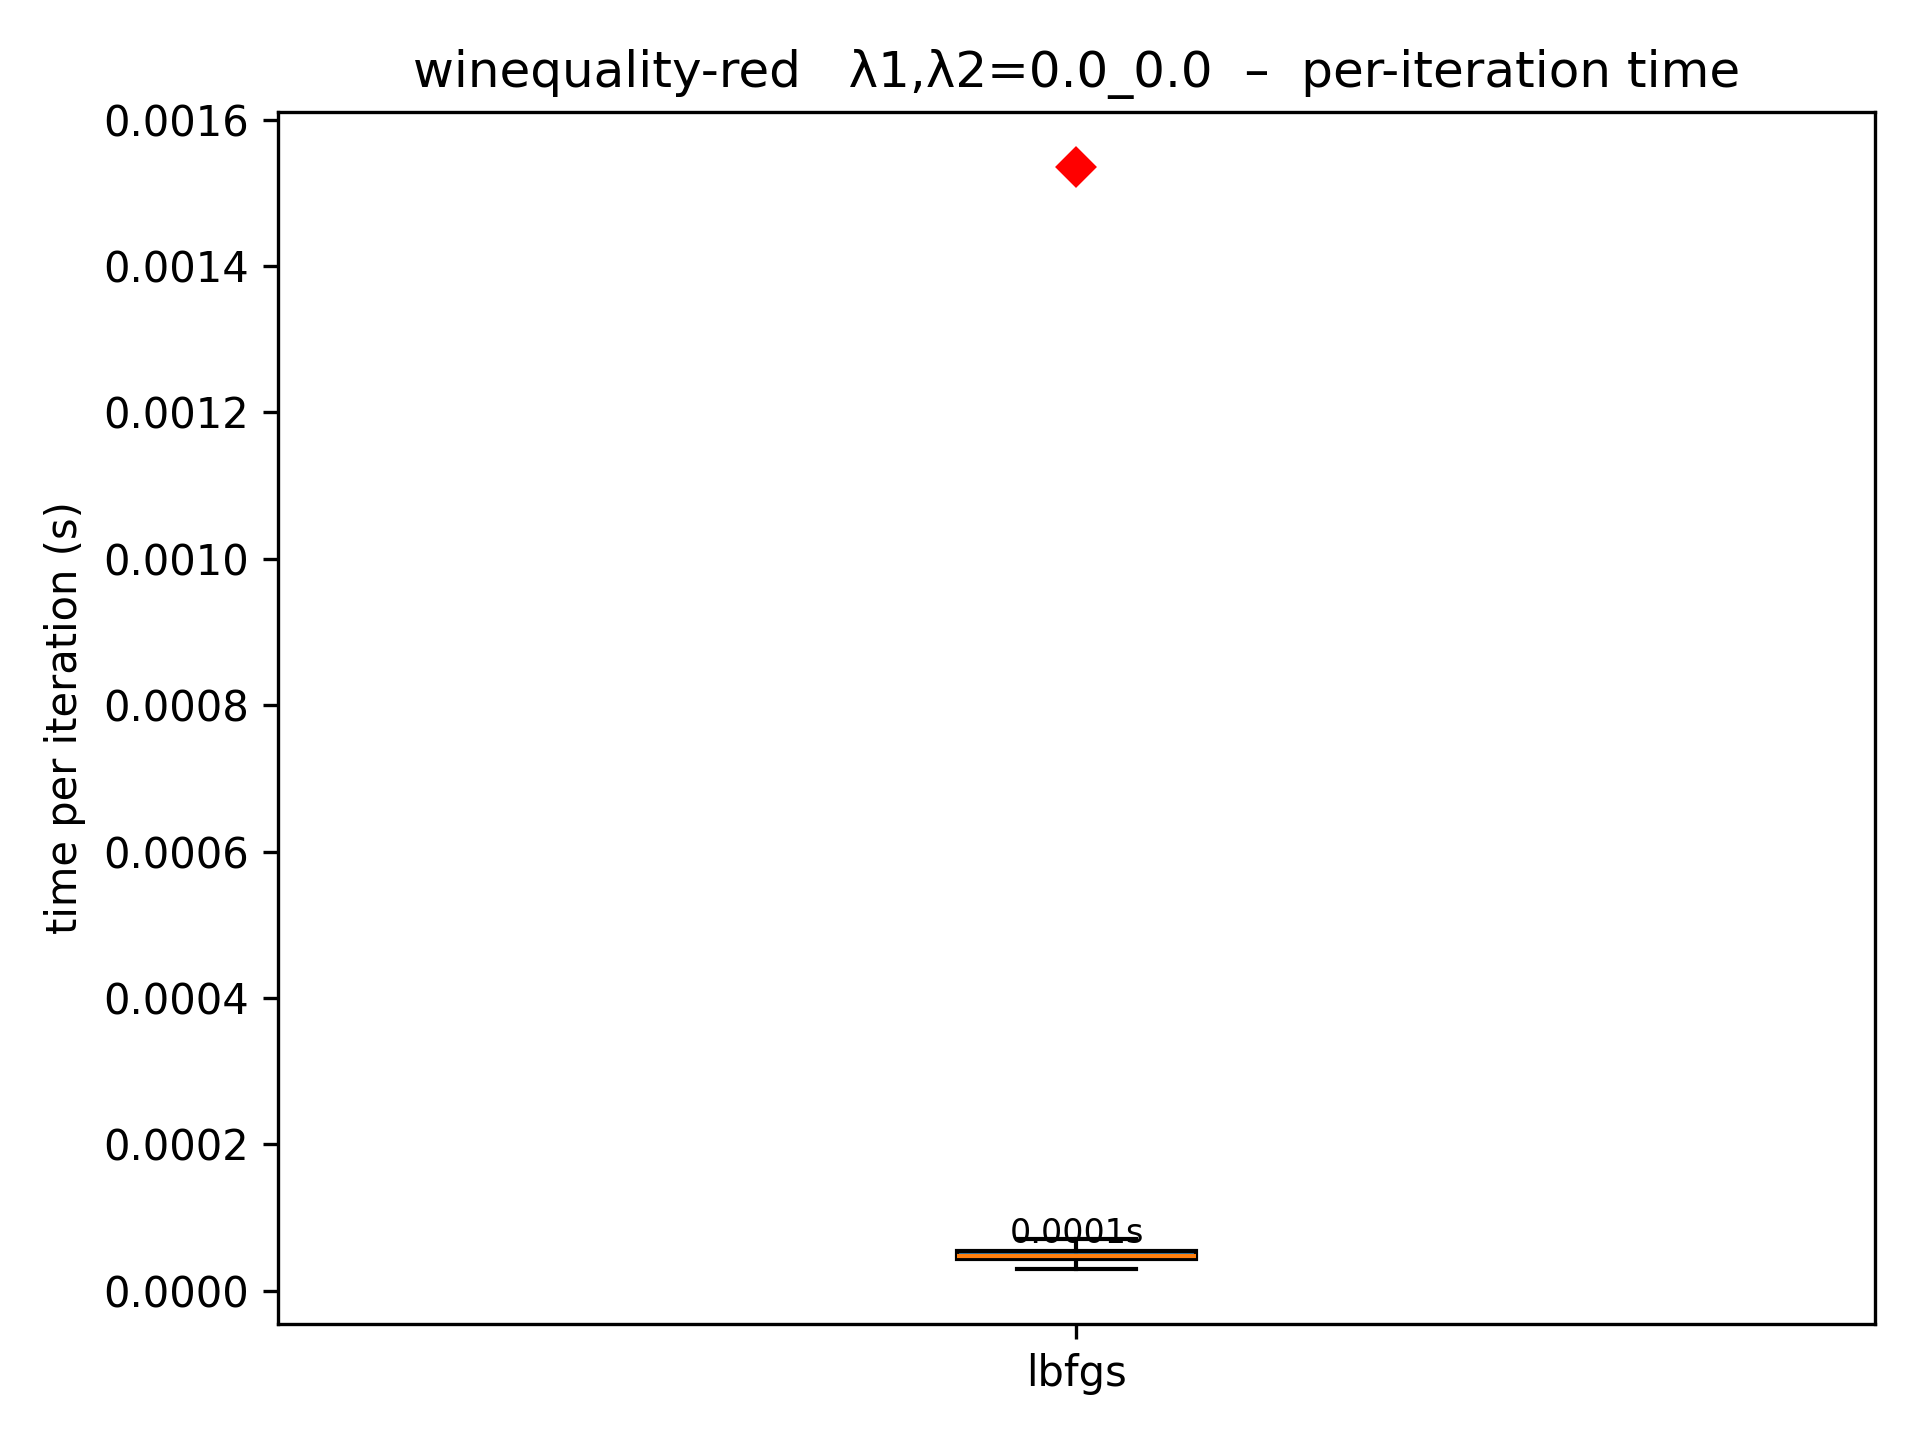
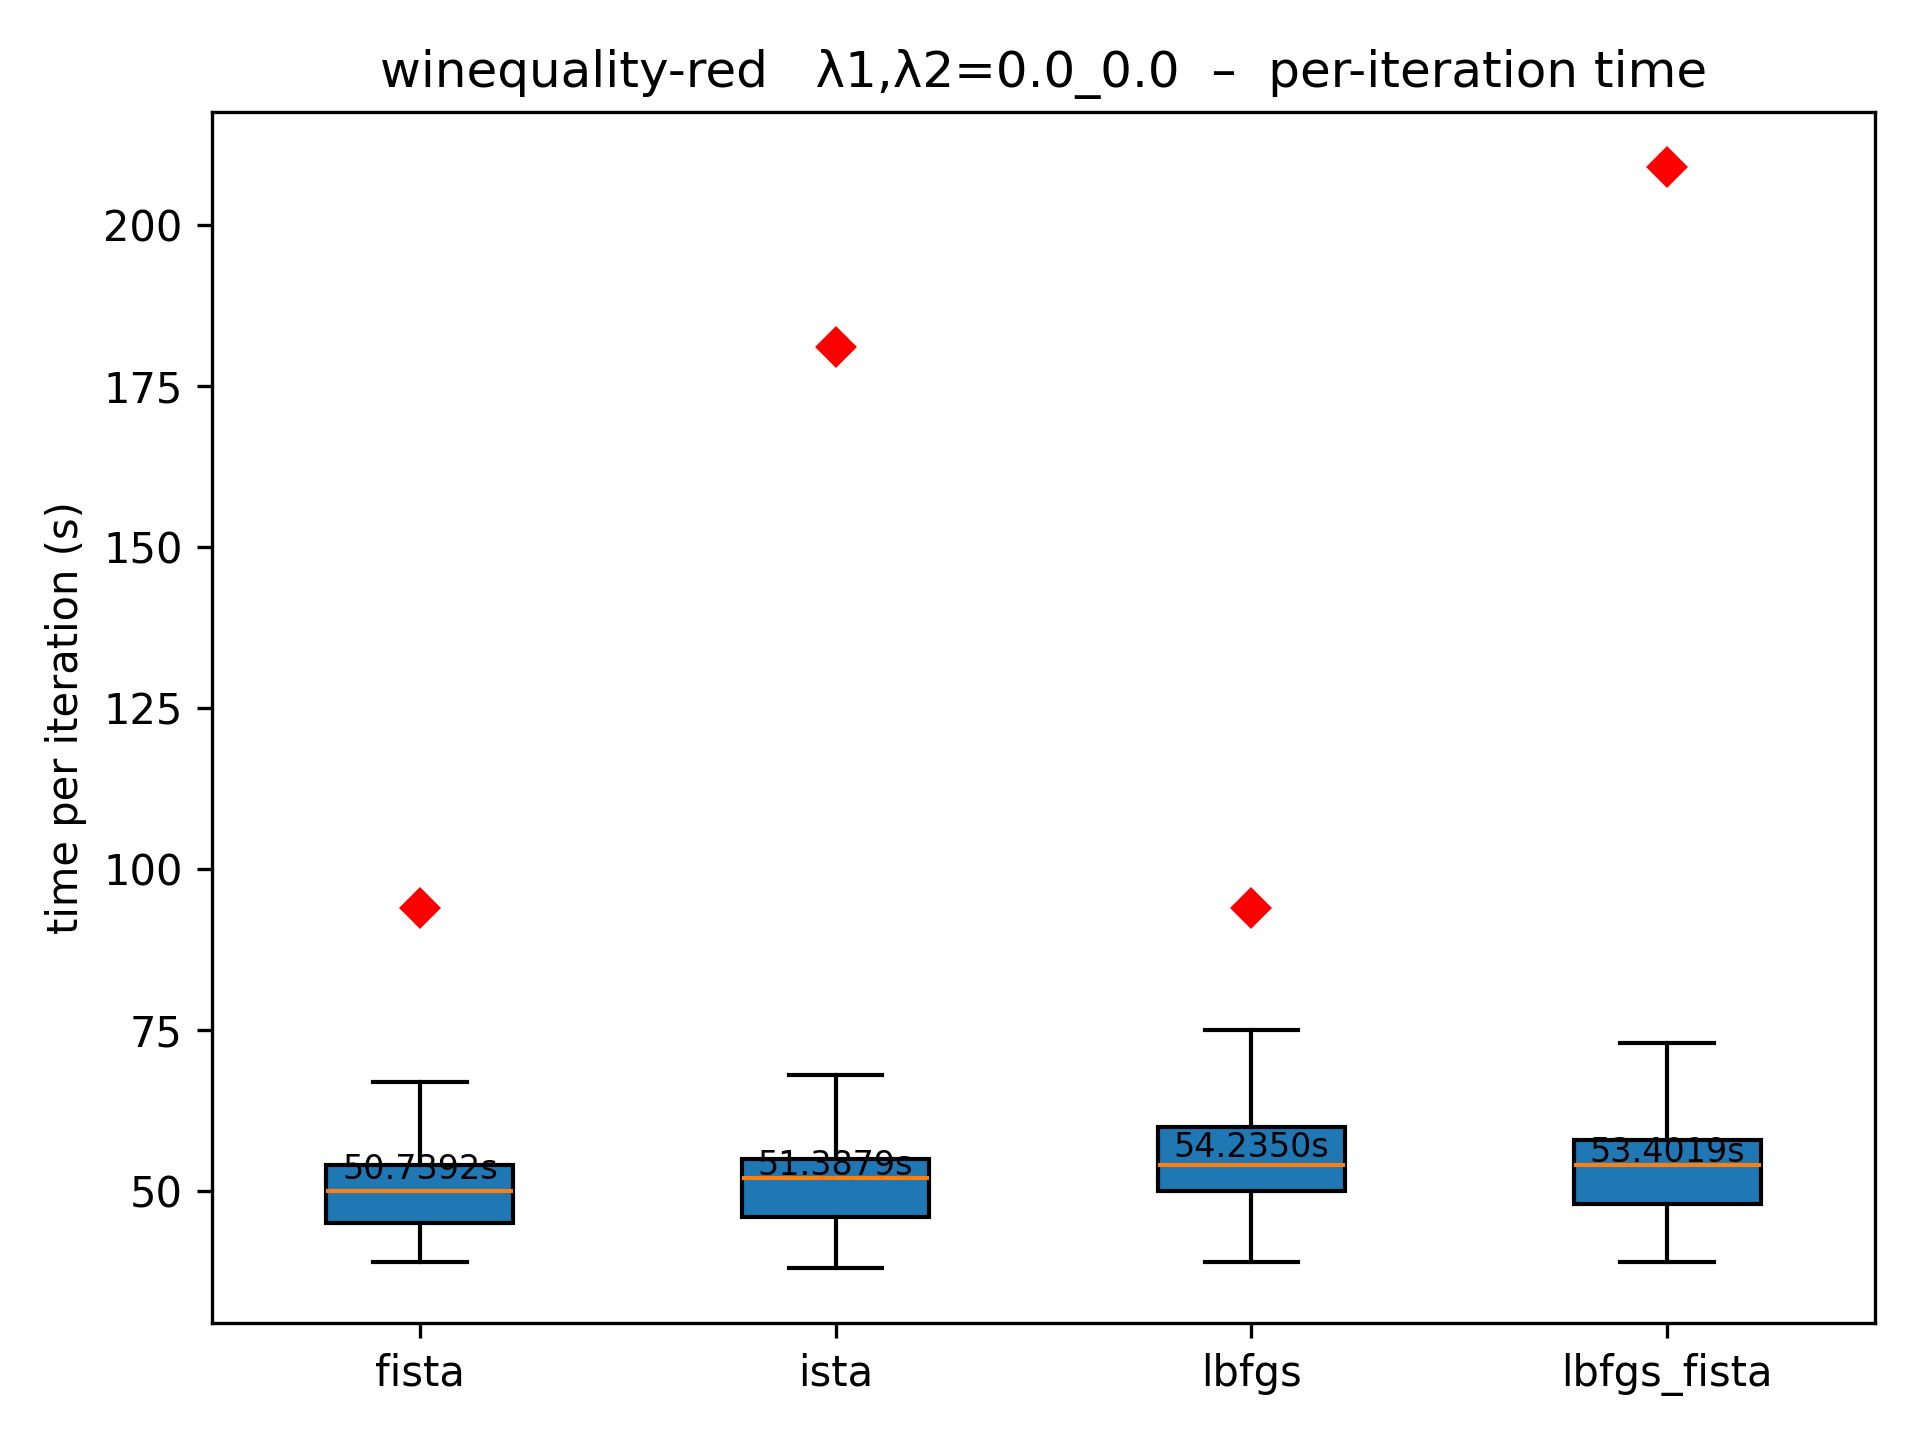
results fonctionne

diff --git a/Implimentation/results.py b/Implimentation/results.py
@@ -28,11 +28,12 @@ import matplotlib.pyplot as plt
 RESULTS_DIR = Path("results")
 PLOTS_DIR   = Path("plots")
 
-DATASETS    = ["boston", "Advertising", "winequality-red"]
-#DATASETS    = ["boston"]
-L1_L2_PAIRS = ["0.0_0.0", "0.0_0.1"]
-#ALGOS       = ["ista", "fista", "lbfgs", "lbfgs_fista"]
-ALGOS = ["lbfgs"]
+#DATASETS    = ["boston", "Advertising", "winequality-red"]
+DATASETS    = ["winequality-red"]
+#L1_L2_PAIRS = ["0.0_0.0", "0.0_0.1"]
+L1_L2_PAIRS = ["0.0_0.0"]
+ALGOS       = ["ista", "fista", "lbfgs", "lbfgs_fista"]
+#ALGOS = ["lbfgs"]
 # suppress the Matplotlib <3.11 boxplot-labels warning
 warnings.filterwarnings(
     "ignore",
@@ -66,17 +67,17 @@ def load_one_csv(path: Path, algo: str) -> pd.DataFrame | None:
 
 def save_objective_vs_iter(df: pd.DataFrame, out: Path, title: str):
     plt.figure()
-    #remove first iteration
-    # df = df[df["Iteration"] > 10]
-    # array of number of rows in df
-    x_axis = np.arange(df.shape[0])
-    print(df.shape)
     for algo, grp in df.groupby("algo"):
-        # print only points
-        plt.plot(grp["Iteration"], grp["objective"], label=algo, 'ro')
-    plt.yscale("log")
+        plt.plot(grp["Iteration"], grp["objective"], label=algo, linewidth = 1.5)
+
+    #average = df["fista"]["objective"].mean()
+
+    #plt.yscale("log")
     plt.xlabel("Iteration")
     plt.ylabel("objective f(x)")
+    plt.ylim(0, df["objective"].min() * 3)
+    ista_iter = df[df["algo"] == "ista"]["Iteration"].max()
+    plt.xlim(0, ista_iter / 5)
     plt.title(title + "  –  objective vs iteration")
     plt.legend()
     plt.tight_layout()
@@ -141,7 +142,7 @@ for dataset in DATASETS:
         out_dir = PLOTS_DIR / dataset / lam
         out_dir.mkdir(parents=True, exist_ok=True)
 
-        # gather CSVs for this dataset & λ-pair
+        #gather CSVs for this dataset & λ-pair
         group_frames = []
         for algo in ALGOS:
             csv_path = RESULTS_DIR / f"{algo}_{dataset}_{lam}.csv"
@@ -149,6 +150,7 @@ for dataset in DATASETS:
                 print(f"⚠  missing file {csv_path.name}")
                 continue
             if (df := load_one_csv(csv_path, algo)) is not None:
+                df["objective"] = pd.to_numeric(df["objective"], errors="coerce")
                 group_frames.append(df)
 
         if not group_frames:
@@ -161,6 +163,7 @@ for dataset in DATASETS:
         save_objective_vs_iter(data, out_dir / "objective_vs_iter.png", title_stub)
         save_objective_vs_time(data, out_dir / "objective_vs_time.png", title_stub)
         save_iter_time_box(data, out_dir / "iter_time_boxplot.png", title_stub)
-        #save_totals(data, out_dir / "totals.txt")
+        save_totals(data, out_dir / "totals.txt")
+
 
 print("✓ all plots written to", PLOTS_DIR.resolve())
